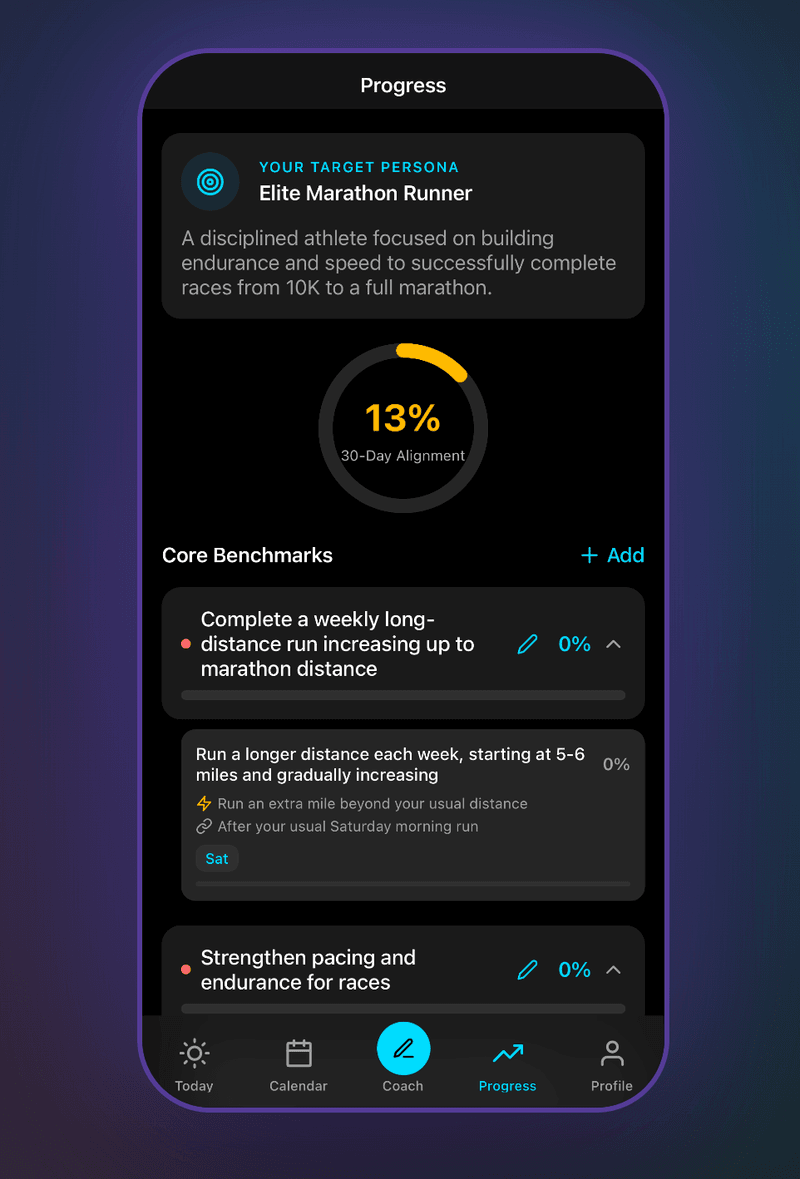
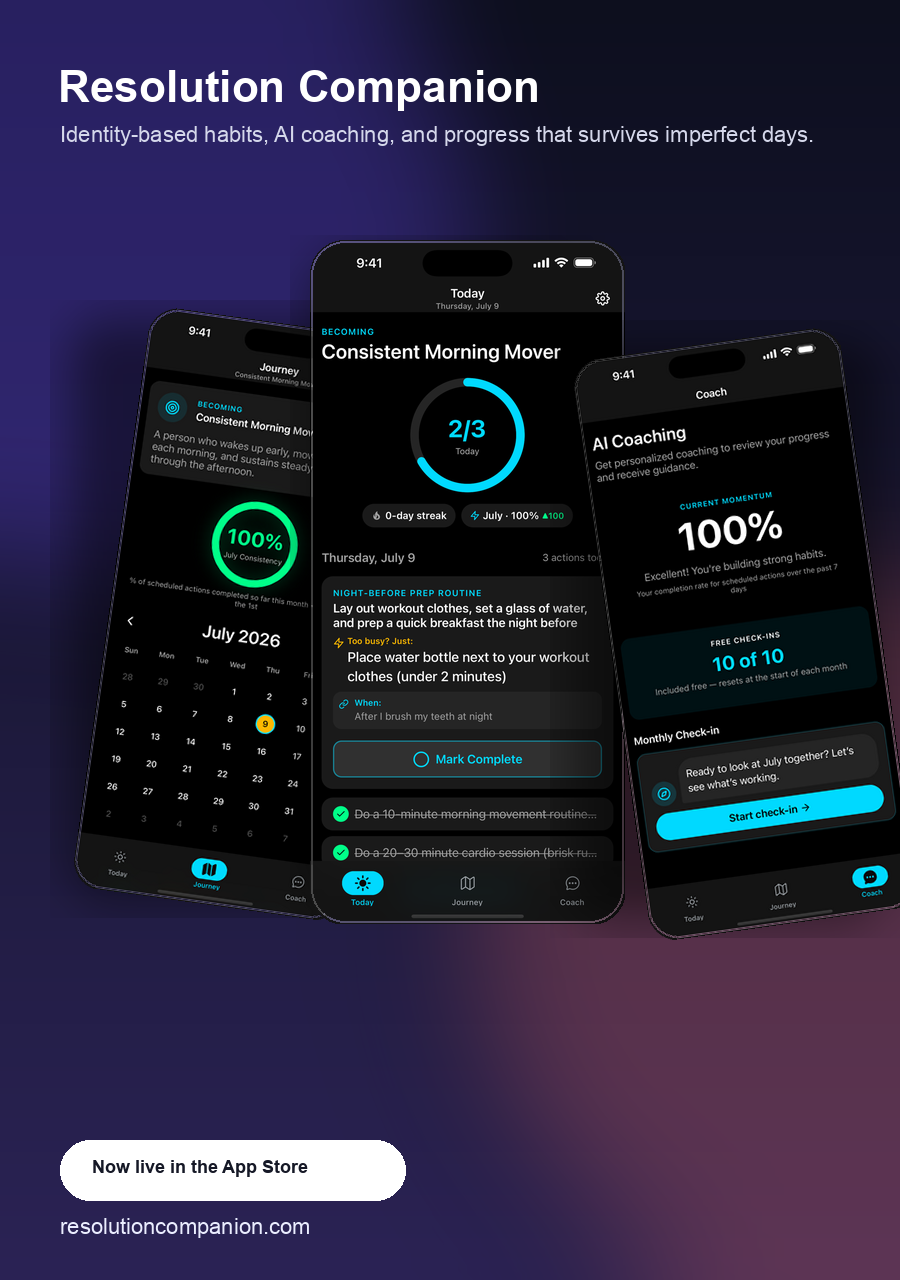
Feature Resolution Companion on products page

diff --git a/app/products/page.tsx b/app/products/page.tsx
@@ -32,6 +32,27 @@ export const metadata: Metadata = {
 
 const products = [
   {
+    category: "AI-powered habit building",
+    title: "Resolution Companion",
+    href: "https://resolutioncompanion.com/",
+    secondaryHref: "https://apps.apple.com/us/app/resolution-companion-ai/id6757996708",
+    image: "/resolution-companion.webp",
+    imageAlt: "Resolution Companion landing page screenshots",
+    width: 900,
+    height: 1280,
+    description:
+      "Now live in the App Store, Resolution Companion is an AI-powered mobile app that helps users build lasting habits through identity-based personal growth. Define your ideal self and make daily choices aligned with that persona, supported by AI coaching and progress tracking.",
+    features: [
+      "Live in the App Store",
+      "AI-guided persona definition",
+      "Momentum calendar",
+      "Identity-first habit system",
+      "120-second kickstart activities",
+    ],
+    cta: "Learn More",
+    secondaryCta: "Download for iOS",
+  },
+  {
     category: "AI agent system",
     title: "Henry — Personal AI Operating System",
     href: "https://bpollak.github.io/openclaw-ai-usecase-deck/",
@@ -48,25 +69,6 @@ const products = [
       "Persistent executive operating layer",
     ],
     cta: "View the Full Use Case Deck",
-  },
-  {
-    category: "AI-powered habit building",
-    title: "Resolution Companion",
-    href: "https://apps.apple.com/us/app/resolution-companion-ai/id6757996708",
-    image: "/resolution-companion.webp",
-    imageAlt: "Resolution Companion App",
-    width: 400,
-    height: 800,
-    description:
-      "Now live in the App Store, Resolution Companion is an AI-powered mobile app that helps users build lasting habits through identity-based personal growth. Define your ideal self and make daily choices aligned with that persona, supported by AI coaching and progress tracking.",
-    features: [
-      "Live in the App Store",
-      "AI-guided persona definition",
-      "Momentum calendar",
-      "Identity-first habit system",
-      "120-second kickstart activities",
-    ],
-    cta: "Download Resolution Companion",
   },
   {
     category: "Media authenticity",
@@ -230,47 +232,67 @@ export default function Products() {
 
         <div className="border-y border-[#d9dfd3]">
           {products.map((product, index) => (
-            <a
+            <article
               key={product.title}
-              href={product.href}
-              target="_blank"
-              rel="noopener noreferrer"
-              className="group block border-b border-[#d9dfd3] py-10 last:border-b-0 transition-colors hover:bg-[#fffef9]"
+              className="group grid gap-8 border-b border-[#d9dfd3] py-10 last:border-b-0 transition-colors hover:bg-[#fffef9] lg:grid-cols-[0.42fr_0.72fr] lg:items-center"
             >
-              <article className="grid gap-8 lg:grid-cols-[0.42fr_0.72fr] lg:items-center">
-                <div className={`border border-[#d9dfd3] p-4 ${frameColors[index % frameColors.length]}`}>
-                  <Image
-                    src={product.image}
-                    alt={product.imageAlt}
-                    width={product.width}
-                    height={product.height}
-                    className="h-auto w-full border border-white/15 object-cover"
-                    sizes="(min-width: 1024px) 28vw, 100vw"
-                  />
+              <a
+                href={product.href}
+                target="_blank"
+                rel="noopener noreferrer"
+                className={`block border border-[#d9dfd3] p-4 ${frameColors[index % frameColors.length]}`}
+              >
+                <Image
+                  src={product.image}
+                  alt={product.imageAlt}
+                  width={product.width}
+                  height={product.height}
+                  className="h-auto w-full border border-white/15 object-cover"
+                  sizes="(min-width: 1024px) 28vw, 100vw"
+                />
+              </a>
+              <div>
+                <p className="rule-label mb-4 text-[#c97712]">{product.category}</p>
+                <h2 className="text-3xl md:text-5xl leading-tight font-medium text-[#17201b] transition-colors group-hover:text-[#1f5a8a]">
+                  {product.title}
+                </h2>
+                <p className="mt-5 text-lg leading-8 text-[#485248]">{product.description}</p>
+                <div className="mt-7 grid gap-3 sm:grid-cols-2">
+                  {product.features.map((feature) => (
+                    <div key={feature} className="flex items-start gap-3 border-t border-[#d9dfd3] pt-3">
+                      <span className="mt-2 h-2 w-2 flex-shrink-0 bg-[#c97712]" aria-hidden="true" />
+                      <span className="text-sm font-semibold leading-6 text-[#17201b]">{feature}</span>
+                    </div>
+                  ))}
                 </div>
-                <div>
-                  <p className="rule-label mb-4 text-[#c97712]">{product.category}</p>
-                  <h2 className="text-3xl md:text-5xl leading-tight font-medium text-[#17201b] transition-colors group-hover:text-[#1f5a8a]">
-                    {product.title}
-                  </h2>
-                  <p className="mt-5 text-lg leading-8 text-[#485248]">{product.description}</p>
-                  <div className="mt-7 grid gap-3 sm:grid-cols-2">
-                    {product.features.map((feature) => (
-                      <div key={feature} className="flex items-start gap-3 border-t border-[#d9dfd3] pt-3">
-                        <span className="mt-2 h-2 w-2 flex-shrink-0 bg-[#c97712]" aria-hidden="true" />
-                        <span className="text-sm font-semibold leading-6 text-[#17201b]">{feature}</span>
-                      </div>
-                    ))}
-                  </div>
-                  <div className="mt-8 inline-flex items-center gap-2 font-semibold text-[#1f5a8a]">
+                <div className="mt-8 flex flex-wrap items-center gap-4">
+                  <a
+                    href={product.href}
+                    target="_blank"
+                    rel="noopener noreferrer"
+                    className="inline-flex items-center gap-2 font-semibold text-[#1f5a8a]"
+                  >
                     {product.cta}
                     <svg className="h-5 w-5 transition-transform group-hover:translate-x-1" fill="none" stroke="currentColor" viewBox="0 0 24 24">
                       <path strokeLinecap="round" strokeLinejoin="round" strokeWidth={2} d="M17 8l4 4m0 0l-4 4m4-4H3" />
                     </svg>
-                  </div>
+                  </a>
+                  {'secondaryHref' in product && product.secondaryHref ? (
+                    <a
+                      href={product.secondaryHref}
+                      target="_blank"
+                      rel="noopener noreferrer"
+                      className="inline-flex items-center gap-2 rounded-sm bg-[#17201b] px-5 py-2.5 font-semibold text-white transition-colors hover:bg-[#1f5a8a] focus:outline-none focus:ring-2 focus:ring-[#1f5a8a] focus:ring-offset-2"
+                    >
+                      {product.secondaryCta}
+                      <svg className="h-5 w-5" fill="none" stroke="currentColor" viewBox="0 0 24 24">
+                        <path strokeLinecap="round" strokeLinejoin="round" strokeWidth={2} d="M17 8l4 4m0 0l-4 4m4-4H3" />
+                      </svg>
+                    </a>
+                  ) : null}
                 </div>
-              </article>
-            </a>
+              </div>
+            </article>
           ))}
         </div>
 